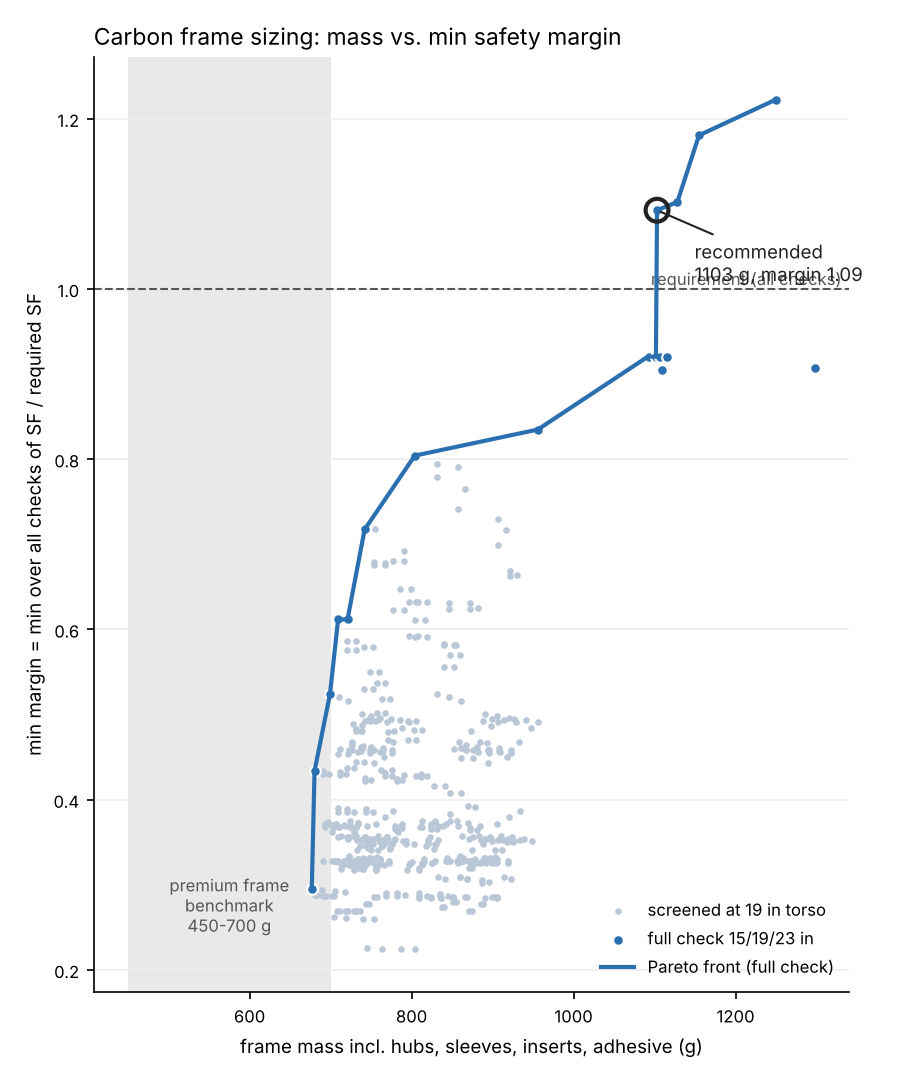
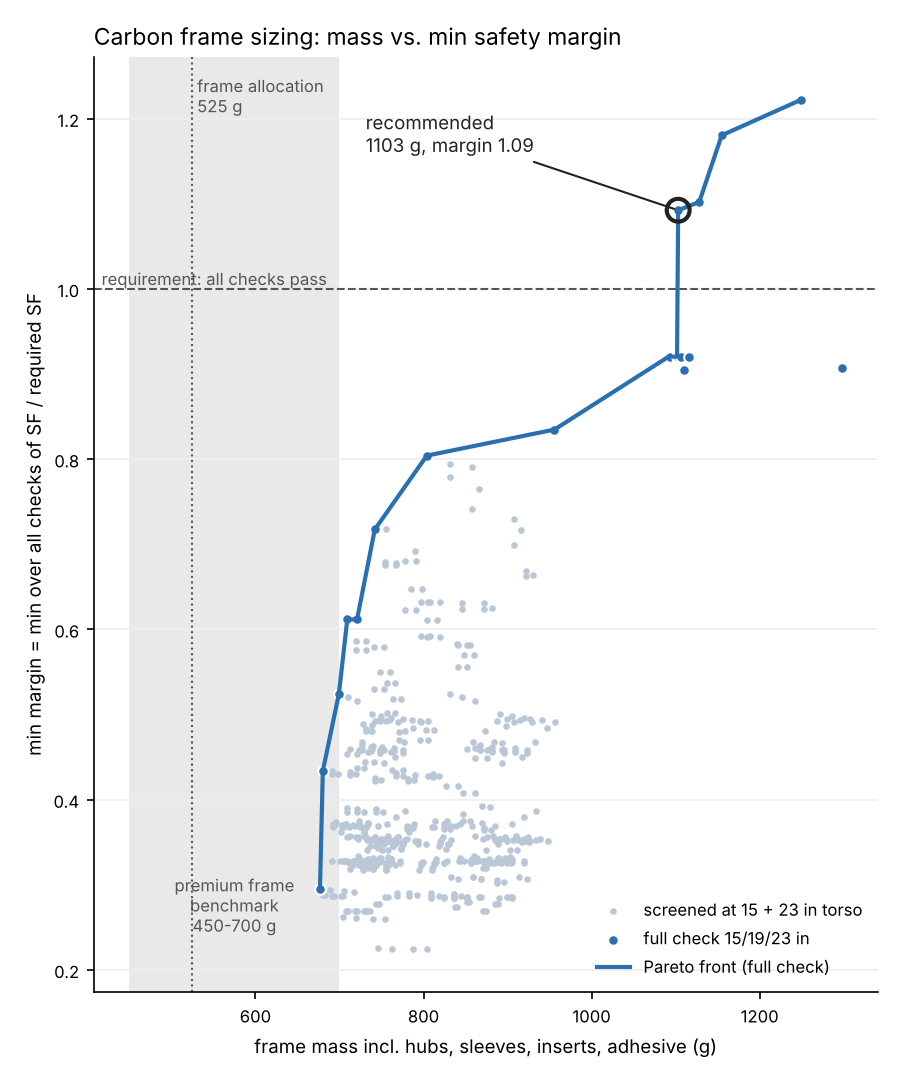
Frame sizing study: lightest passing carbon frame 1103 g on crown topology; crown retention loads
Claude-Session: https://claude.ai/code/session_01QS5dr7h3sQbDVRoMy755JN

diff --git a/huntkit/fea/sizing5200.py b/huntkit/fea/sizing5200.py
@@ -374,7 +374,8 @@ def deliver(sw, design_dir="designs/pack_5200", screens_dir="outputs/screens", d
     png1 = adir / "frame_sizing_worst_case.png"
     plot_worst_case(res, png1, f"Pack 5200 frame, worst case: {gcase} ({gov['torso']:g} in torso)")
     png2 = adir / "frame_sizing_pareto.png"
-    plot_pareto({"stage2": sw["stage2"], "stage3": s3}, rec if feasible else None, png2)
+    plot_pareto({"stage2": sw["stage2"], "stage3": s3}, rec if feasible else None, png2,
+                budget_g=FRAME_BUDGET_G, screen_label="screened at 15 + 23 in torso")
     png3 = adir / "frame_sizing_case_margins.png"
     names = list(kept["results"]) + ["fatigue"]
     plot_case_margins({"cases": names, "torsos": (15, 19, 23),
@@ -415,6 +416,27 @@ def _md(sw, e, feasible, model, crown, gcase, png1, png2, png3):
         L.append(f"**No design in the sweep passes every check.** The best candidate weighs {m:.0f} g "
                  f"({m * G2OZ:.1f} oz), {vs}, with a min margin of {e['margin']:.2f}. See the governing checks "
                  "and recommendations below.")
+    items = e["mass_items"]
+    top3 = sorted(items.items(), key=lambda kv: -kv[1])[:3]
+    L += ["", "### Why it is heavy, and the path to the 525-600 g target", "",
+          "The three largest mass items are " + ", ".join(f"{k} ({v:.0f} g)" for k, v in top3) + ". "
+          "The checks that set the mass are the Volkersen PEAK bond shear at the lumbar elbows (tall_load, "
+          "15 in), the crown-leg ring crush at the stay-top bushing (hipbelt-off abuse) and lumbar-plate "
+          "bending at its free top edge. None of these can be fixed by tube size alone. These changes "
+          "go to the pack-designer:",
+          "1. **Delete the lumbar elbows.** Use one straight stay per side from the foot boot to the stay top, "
+          "with the lumbar curve in the foam. The elbow is the governing bond, and its 2 mm 7075 sleeves "
+          "plus the elbow sockets are ~90 g of the sleeve mass.",
+          "2. **Replace the 7075 sockets/sleeves with carbon wraps** (a wet-wrapped or prepreg-wrapped "
+          "sleeve over the tube at each node), or with 1 mm tapered Al. A scarfed sleeve end cuts the "
+          "Volkersen peak about 2x. That is not credited here: run a joint coupon test to earn it.",
+          "3. **Make the lumbar plate a formed hat-section** (2 mm with a 15 mm return flange on the top and "
+          "bottom edges), or use a 22 mm lumbar tube at z 120 with a 1.5 mm pm45 shear web. The 4 mm flat "
+          "QI plate (217 g) is sized by free-edge bending.",
+          "4. **Crown legs:** 50-70 mm bushings, plus a bonded 7075 collar at the stay top (credited). A "
+          "UHMWPE bushing with a 120 deg contact land, rather than the point-load ring formula used here, "
+          "should allow the 0.94 mm leg wall. Verify with a crush coupon.",
+          "Re-run `python -m huntkit.fea.cli size5200` after the topology update.", ""]
     L += ["", f"- Design: {e['label']}",
           f"- Min margin (SF / required, all checks, torsos 15/19/23 in): **{e['margin']:.2f}**. Governing: "
           f"{e['governing']['what']} at {e['governing']['torso']:g} in.", "",

diff --git a/huntkit/fea/sizing.py b/huntkit/fea/sizing.py
@@ -428,7 +428,8 @@ def _plain(x):
 
 
 # ---------------------------------------------------------------------------- plots
-def plot_pareto(sw: dict, rec: dict | None, png, phone: bool = True):
+def plot_pareto(sw: dict, rec: dict | None, png, phone: bool = True, budget_g: float | None = None,
+                screen_label: str = "screened at 19 in torso"):
     import matplotlib
     matplotlib.use("Agg")
     import matplotlib.pyplot as plt
@@ -438,11 +439,15 @@ def plot_pareto(sw: dict, rec: dict | None, png, phone: bool = True):
     ax.text(575, 0.06, "premium frame\nbenchmark\n450-700 g", ha="center", va="bottom", fontsize=8,
             color="#555555", transform=ax.get_xaxis_transform())
     ax.axhline(1.0, color="#555555", lw=1, ls="--")
-    ax.text(ax.get_xlim()[0] if False else 0.99, 1.0, "requirement (all checks)", ha="right", va="bottom",
+    ax.text(0.01, 1.0, "requirement: all checks pass", ha="left", va="bottom",
             fontsize=8, color="#555555", transform=ax.get_yaxis_transform())
+    if budget_g:
+        ax.axvline(budget_g, color="#555555", lw=1, ls=":")
+        ax.text(budget_g, 0.98, f" frame allocation\n {budget_g:.0f} g", ha="left", va="top", fontsize=8,
+                color="#555555", transform=ax.get_xaxis_transform())
     x2 = [e["mass_g"] for e in s2]
     y2 = [min(e["margin"], 3.0) for e in s2]
-    ax.scatter(x2, y2, s=10, color="#b9c7d6", label="screened at 19 in torso", zorder=2, lw=0)
+    ax.scatter(x2, y2, s=10, color="#b9c7d6", label=screen_label, zorder=2, lw=0)
     x3 = [e["mass_g"] for e in s3]
     y3 = [min(e["margin"], 3.0) for e in s3]
     ax.scatter(x3, y3, s=26, color="#2a6fb0", label="full check 15/19/23 in", zorder=3,
@@ -454,7 +459,7 @@ def plot_pareto(sw: dict, rec: dict | None, png, phone: bool = True):
         ax.scatter([rec["mass_g"]], [rec["margin"]], s=120, facecolors="none", edgecolors="#222222",
                    linewidths=2, zorder=4)
         ax.annotate(f"recommended\n{rec['mass_g']:.0f} g, margin {rec['margin']:.2f}",
-                    (rec["mass_g"], rec["margin"]), xytext=(18, -34), textcoords="offset points",
+                    (rec["mass_g"], rec["margin"]), xytext=(-150, 28), textcoords="offset points",
                     fontsize=9, color="#222222", arrowprops=dict(arrowstyle="-", color="#222222", lw=1))
     ax.set_xlabel("frame mass incl. hubs, sleeves, inserts, adhesive (g)", fontsize=9)
     ax.set_ylabel("min margin = min over all checks of SF / required SF", fontsize=9)

diff --git a/designs/pack_5200/analysis/frame_sizing.md b/designs/pack_5200/analysis/frame_sizing.md
@@ -6,6 +6,16 @@ Owner: structural-fea-engineer. Model: `huntkit/fea/pack5200.py` built from `des
 
 **Lightest design that passes every check: 1103 g (38.9 oz, 2.43 lb).** That is OVER the 525 g allocation by 578 g. The R-15 limit is 600 g, and the premium-frame benchmark is 450-700 g.
 
+### Why it is heavy, and the path to the 525-600 g target
+
+The three largest mass items are 7075 sockets/sleeves + gussets (338 g), lumbar plate (250 x 140) (217 g), tubes: crown_leg (112 g). The checks that set the mass are the Volkersen PEAK bond shear at the lumbar elbows (tall_load, 15 in), the crown-leg ring crush at the stay-top bushing (hipbelt-off abuse) and lumbar-plate bending at its free top edge. None of these can be fixed by tube size alone. These changes go to the pack-designer:
+1. **Delete the lumbar elbows.** Use one straight stay per side from the foot boot to the stay top, with the lumbar curve in the foam. The elbow is the governing bond, and its 2 mm 7075 sleeves plus the elbow sockets are ~90 g of the sleeve mass.
+2. **Replace the 7075 sockets/sleeves with carbon wraps** (a wet-wrapped or prepreg-wrapped sleeve over the tube at each node), or with 1 mm tapered Al. A scarfed sleeve end cuts the Volkersen peak about 2x. That is not credited here: run a joint coupon test to earn it.
+3. **Make the lumbar plate a formed hat-section** (2 mm with a 15 mm return flange on the top and bottom edges), or use a 22 mm lumbar tube at z 120 with a 1.5 mm pm45 shear web. The 4 mm flat QI plate (217 g) is sized by free-edge bending.
+4. **Crown legs:** 50-70 mm bushings, plus a bonded 7075 collar at the stay top (credited). A UHMWPE bushing with a 120 deg contact land, rather than the point-load ring formula used here, should allow the 0.94 mm leg wall. Verify with a crush coupon.
+Re-run `python -m huntkit.fea.cli size5200` after the topology update.
+
+
 - Design: stay 25 RW45 k6 (1.19) | leg 20 RW45 k8 (1.44) | bars 22 RW45 k6 (1.19) | plate QI 4 | spine tube 20 RW45 k6 (1.19) | mma | sleeve 2 | bushing 70
 - Min margin (SF / required, all checks, torsos 15/19/23 in): **1.09**. Governing: tall_load: bond peak elbow_L/end at 15 in.
 
